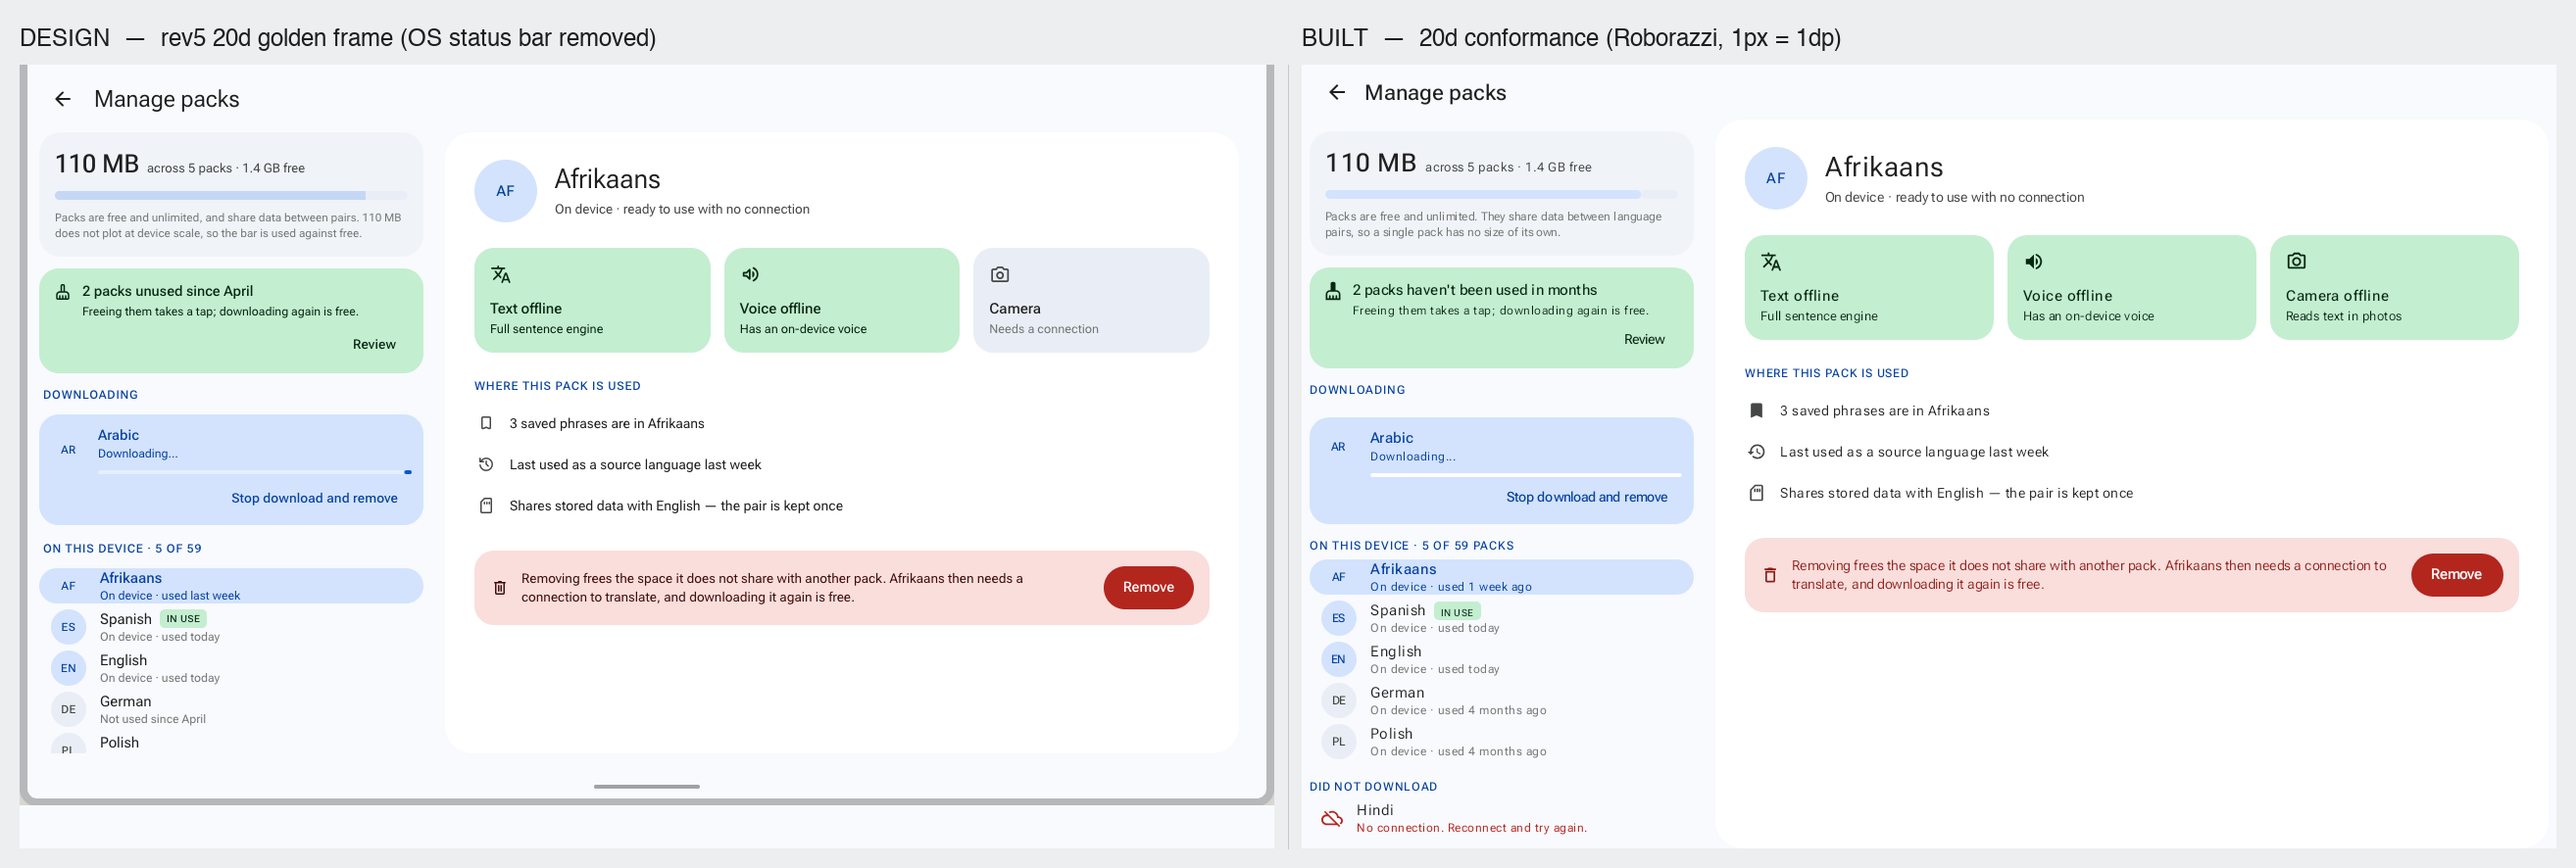
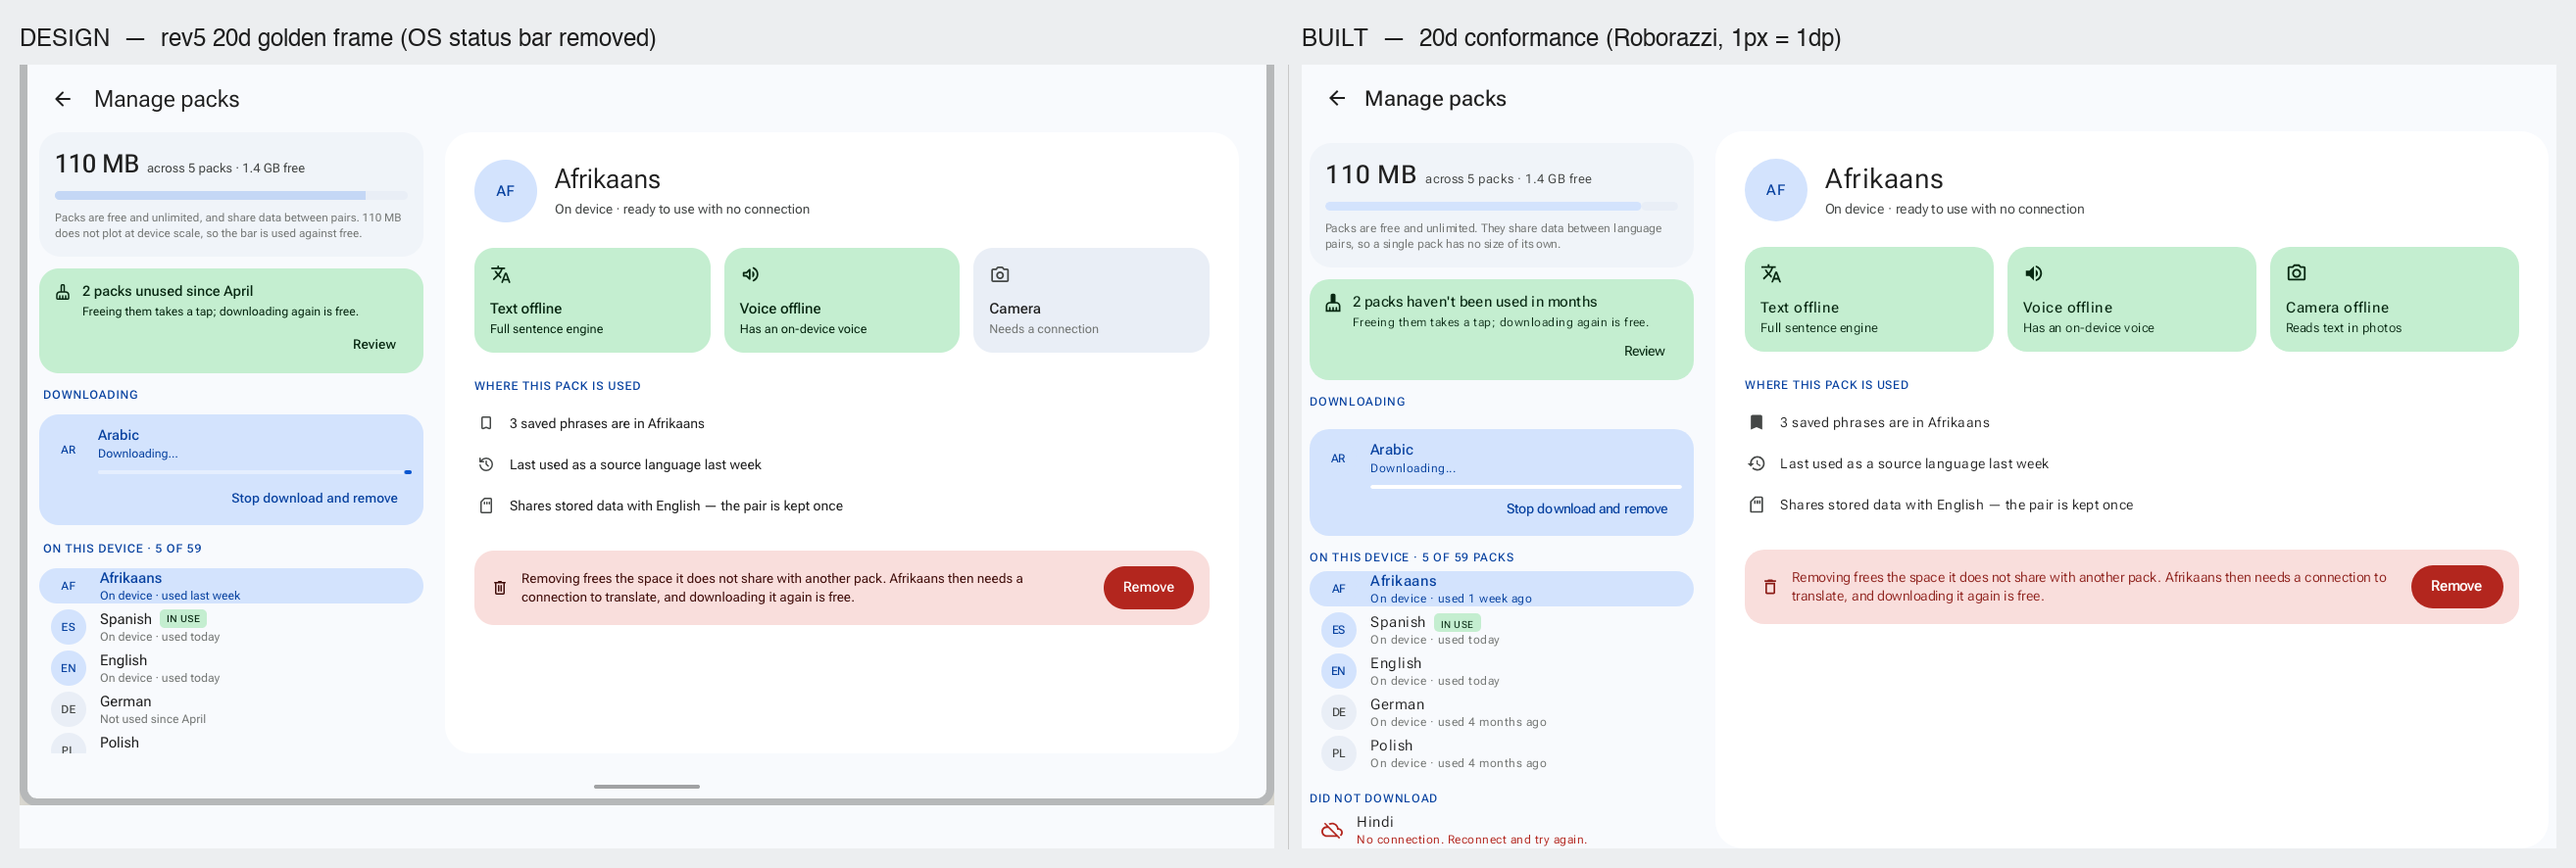
style(language): align the Manage-packs app bar to the frame's 68dp
The rev5 app bar is 68dp (20b.json / 20d.json: bar y44->112). The shared
ManagePacksHeader wrapped to the 48dp icon button + padding (~56dp), so the
whole content block sat ~12dp too high against the frame. heightIn(min=68dp)
fixes it: the built 20d detail pane now lands at y68 vs the spec's y69 target
(design y113 minus the 44dp OS status bar a Roborazzi capture omits) — a 1px
vertical delta, down from 13px. Corrects the offset in BOTH frames; the compact
(20b) and expanded (20d) Roborazzi goldens are re-recorded.

Fixes: #332

Changed region(s): [[0.4992, 0.1524, 0.9985, 0.9752], [0.5304, 0.0914, 0.5928, 0.1219]]

diff --git a/feature/language/src/main/kotlin/com/codeboxlk/tranzlate/feature/language/OfflineLanguagesScreen.kt b/feature/language/src/main/kotlin/com/codeboxlk/tranzlate/feature/language/OfflineLanguagesScreen.kt
@@ -410,7 +410,13 @@ private fun ManagePacksHeader(onBack: () -> Unit) {
     val spacing = LocalSpacing.current
     Row(
         verticalAlignment = Alignment.CenterVertically,
-        modifier = Modifier.padding(horizontal = spacing.xs4, vertical = spacing.xs4),
+        // The rev5 app bar is 68dp (20b.json / 20d.json: bar y44→112). Without this the Row
+        // wraps to the 48dp icon button + padding (~56dp) and the whole content sits ~12dp too
+        // high against the frame. heightIn keeps a taller title from clipping.
+        modifier =
+            Modifier
+                .heightIn(min = 68.dp)
+                .padding(horizontal = spacing.xs4),
     ) {
         IconButton(onClick = onBack, modifier = Modifier.testTag("tt_manage_back")) {
             Icon(Icons.Outlined.ArrowBack, contentDescription = stringResource(R.string.offline_cd_back))
